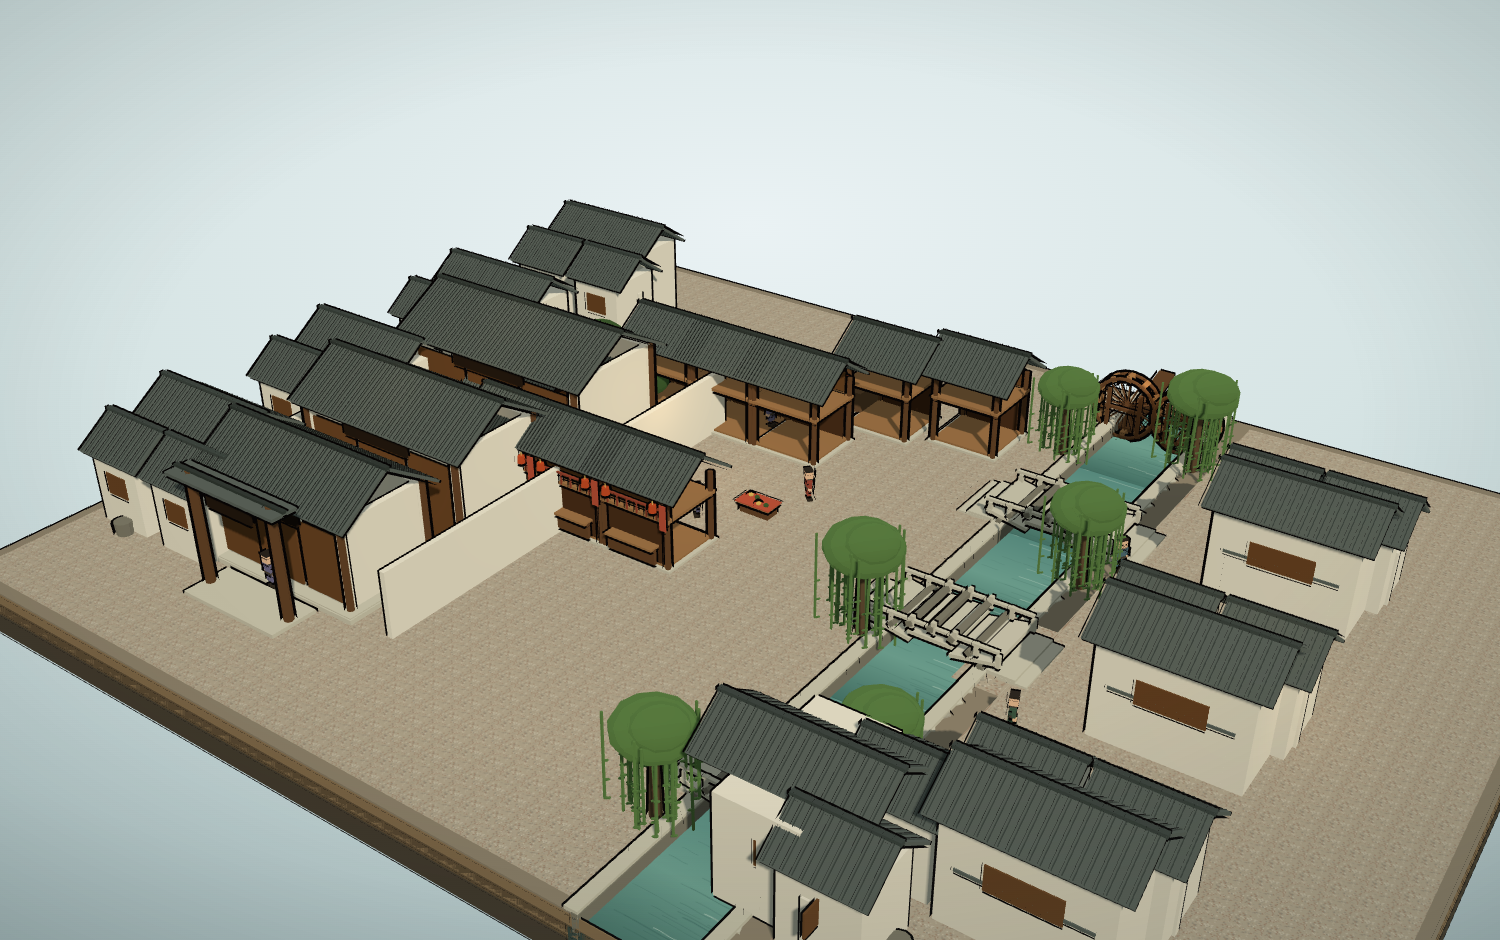
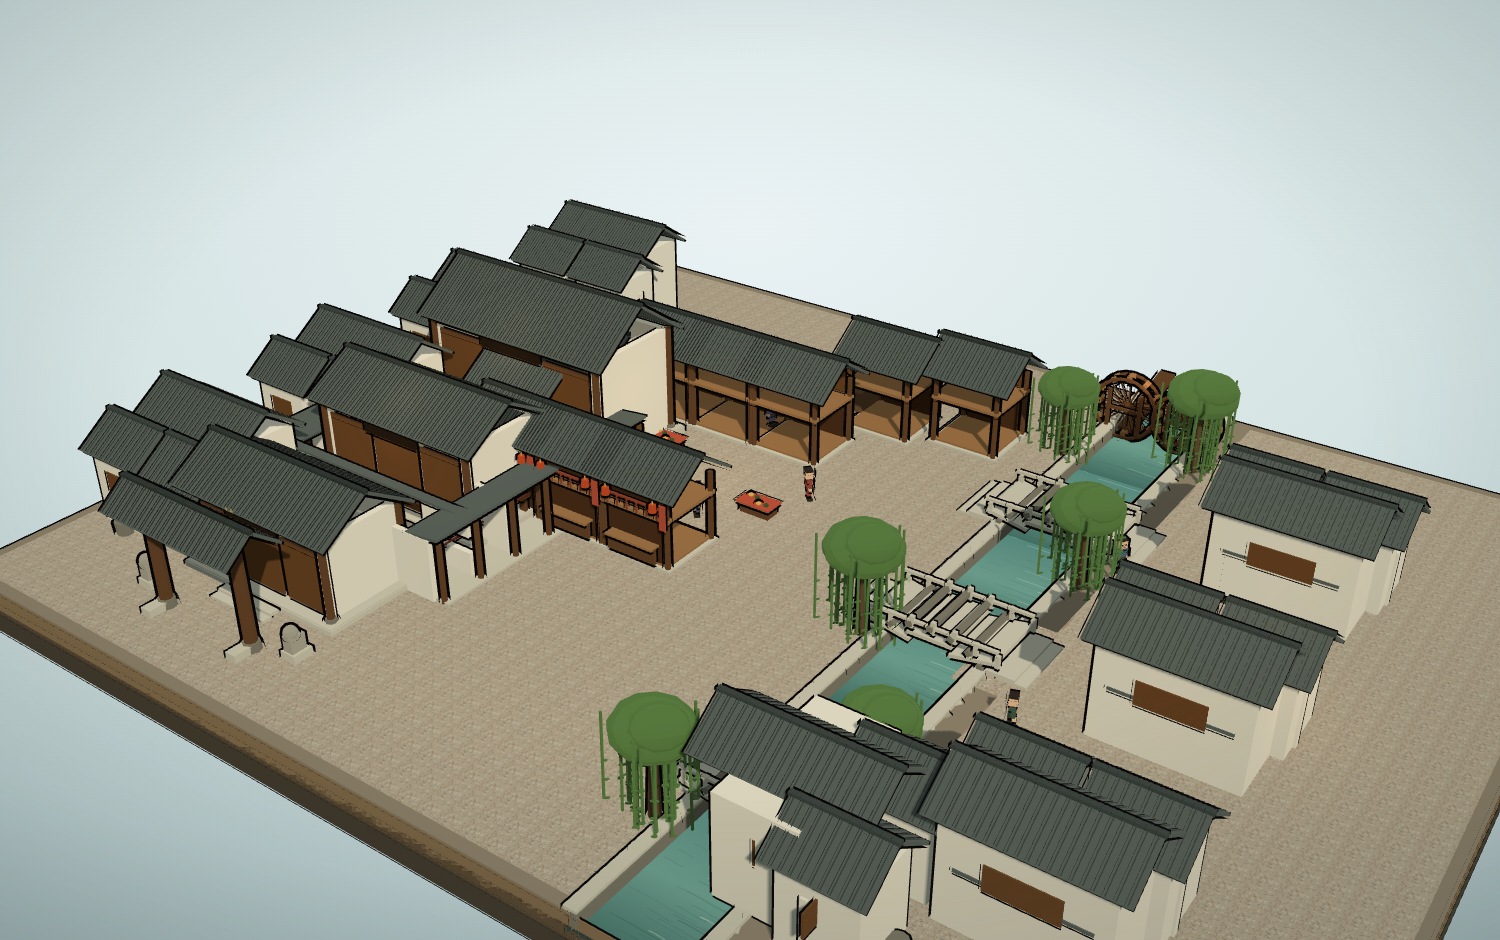
fix(lijiang): 木府重修——三进高度分级、东西廊与院墙月洞门、牌坊改硬山顶

diff --git a/docs/lijiang.html b/docs/lijiang.html
@@ -19428,46 +19428,103 @@ function ljHouse(b, x, z, ry) {
   b.cyl('ljStoneD', 0.40, 0.36, 0.62, 12, pj[0], FY + 0.31, pj[1]);
 }
 
-/* ---------------- 木府：三进院落 + 牌坊 ---------------- */
+/* ---------------- 木府：牌坊 + 三进院落 + 东西廊 ---------------- */
 function ljMansion(b) {
   const CX = -16.0, FY = LJ_GY + 0.30;
-  /* 牌坊（最南） */
-  b.box('ljStoneL', 5.4, 0.30, 2.2, CX, LJ_GY + 0.15, 16.6);
-  [-2.4, 2.4].forEach(function (s) {
-    b.cyl('ljWoodD', 0.20, 0.22, 5.2, 8, CX + s, FY + 2.6, 16.6);
+
+  /* 牌坊：单间两柱，重檐瓦顶（三间四柱在低模下接不实） */
+  const PZ = 18.6;
+  [-2.6, 2.6].forEach(function (dx) {
+    b.cyl('ljStoneD', 0.36, 0.42, 0.52, 8, CX + dx, LJ_GY + 0.26, PZ);
+    b.cyl('ljWoodD', 0.26, 0.28, 5.0, 8, CX + dx, LJ_GY + 2.98, PZ);
+    /* 抱鼓石 */
+    b.box('ljStoneL', 0.55, 0.45, 0.95, CX + dx, LJ_GY + 0.24, PZ + 0.55);
   });
-  b.box('ljWoodD', 5.6, 0.26, 0.26, CX, FY + 4.9, 16.6);
-  b.box('ljTile', 6.4, 0.14, 1.2, CX, FY + 5.10, 16.6);
-  b.box('ljRidge', 6.5, 0.12, 0.18, CX, FY + 5.24, 16.6);
-  b.box('ljSign', 2.6, 0.52, 0.12, CX, FY + 4.30, 16.6 + 0.16);
-  /* 三进厅堂 */
-  function hall(cz, w, d, h) {
-    b.box('ljStoneL', w + 1.0, 0.34, d + 1.0, CX, LJ_GY + 0.17, cz);
-    b.box('ljStoneL', w + 0.9, 0.06, d + 0.9, CX, LJ_GY + 0.37, cz);
+  b.box('ljWoodD', 6.0, 0.30, 0.34, CX, LJ_GY + 5.32, PZ);
+  b.box('ljWoodD', 5.2, 0.16, 0.26, CX, LJ_GY + 4.74, PZ);
+  /* 双坡瓦顶 */
+  /* 牌坊顶直接调硬山函数：手拼双坡的尺寸/角度很难一次对准 */
+  gdGableRoof(b, 'ljTile', 'ljRidge', CX, PZ, 7.0, 2.5, LJ_GY + 4.75, LJ_GY + 5.75, 'z');
+  b.box('ljSign', 2.6, 0.62, 0.12, CX, LJ_GY + 4.90, PZ + 0.19);
+  b.box('ljGold', 2.72, 0.05, 0.14, CX, LJ_GY + 5.22, PZ + 0.19);
+  /* 石狮 */
+  [[-4.4, 17.9], [4.4, 17.9]].forEach(function (q) {
+    b.box('ljStoneL', 0.78, 0.46, 0.92, CX + q[0], LJ_GY + 0.25, q[1]);
+    b.box('ljStone', 0.50, 0.70, 0.70, CX + q[0], LJ_GY + 0.83, q[1] + 0.04);
+    b.sph('ljStone', 0.30, CX + q[0], LJ_GY + 1.31, q[1] + 0.15, 1, 1, 1);
+  });
+
+  /* 厅堂：门厅低、仪门中、正殿高，间距 7 米 */
+  function hall(cz, w, d, h, tier) {
+    const base = LJ_GY + 0.14 * tier;
+    b.box('ljStoneL', w + 1.0, 0.34, d + 1.0, CX, base + 0.17, cz);
+    b.box('ljStoneL', w + 0.92, 0.06, d + 0.92, CX, base + 0.37, cz);
+    const FYh = base + 0.40;
     [[-w / 2, -d / 2], [w / 2, -d / 2], [-w / 2, d / 2], [w / 2, d / 2]].forEach(function (q) {
-      b.cyl('ljWoodD', 0.15, 0.16, h, 8, CX + q[0], FY + h / 2, cz + q[1]);
+      b.cyl('ljWoodD', 0.16, 0.17, h, 8, CX + q[0], FYh + h / 2, cz + q[1]);
+      b.cyl('ljStoneD', 0.24, 0.26, 0.16, 8, CX + q[0], FYh + 0.08, cz + q[1]);
     });
-    b.box('ljWall', w, h, 0.30, CX, FY + h / 2, cz - d / 2 + 0.15);
-    b.box('ljWall', 0.30, h, d, CX - w / 2 + 0.15, FY + h / 2, cz);
-    b.box('ljWall', 0.30, h, d, CX + w / 2 - 0.15, FY + h / 2, cz);
+    /* 三面墙 */
+    b.box('ljWall', w, h, 0.30, CX, FYh + h / 2, cz - d / 2 + 0.15);
+    b.box('ljWall', 0.30, h, d, CX - w / 2 + 0.15, FYh + h / 2, cz);
+    b.box('ljWall', 0.30, h, d, CX + w / 2 - 0.15, FYh + h / 2, cz);
+    /* 前檐格扇：三间 */
     for (let i = 0; i < 3; i++) {
-      b.box('ljLattice', w / 3 - 0.28, h - 0.9, 0.08, CX - w / 2 + (i + 0.5) * w / 3, FY + (h - 0.9) / 2 + 0.2, cz + d / 2 - 0.08);
+      b.box('ljLattice', w / 3 - 0.28, h - 0.9, 0.08,
+        CX - w / 2 + (i + 0.5) * w / 3, FYh + (h - 0.9) / 2 + 0.15, cz + d / 2 - 0.08);
+      b.box('ljWoodD', w / 3 - 0.28, 0.10, 0.12,
+        CX - w / 2 + (i + 0.5) * w / 3, FYh + h - 0.72, cz + d / 2 - 0.08);
     }
-    gdGableRoof(b, 'ljTile', 'ljRidge', CX, cz, w + 0.7, d + 0.7, FY + h, FY + h + 1.7, 'z');
-    b.box('ljSign', w * 0.42, 0.48, 0.10, CX, FY + h - 0.55, cz + d / 2 + 0.16);
+    /* 额枋 */
+    b.box('ljWoodD', w + 0.15, 0.24, 0.22, CX, FYh + h - 0.12, cz + d / 2);
+    /* 屋顶：正殿（tier 2）脊更高 */
+    gdGableRoof(b, 'ljTile', 'ljRidge', CX, cz, w + 0.7, d + 0.7, FYh + h, FYh + h + (tier === 2 ? 2.1 : 1.5), 'z');
+    /* 匾 */
+    b.box('ljSign', w * 0.36, 0.44, 0.10, CX, FYh + h - 0.52, cz + d / 2 + 0.14);
+    /* 台阶三级 */
+    for (let i = 0; i < 3; i++) {
+      b.box('ljStoneL', 3.2, 0.15, 0.42, CX, base + 0.30 - i * 0.13, cz + d / 2 + 0.85 + i * 0.40);
+    }
+    return FYh;
   }
-  hall(12.6, 8.0, 4.4, 4.0);    // 大门厅
-  hall(6.6, 9.0, 4.8, 4.6);     // 仪门
-  hall(-0.6, 10.0, 5.4, 5.2);   // 正殿
-  /* 后院小园 */
-  b.box('ljStoneD', 6.0, 0.30, 4.2, CX, LJ_GY - 0.12, -7.4);
-  b.box('ljWaterD', 5.6, 0.06, 3.8, CX, LJ_WY, -7.4);
-  b.sph('ljLeaf2', 1.1, CX - 2.6, FY + 1.6, -8.6, 1.2, 0.8, 1.1);
-  b.sph('ljLeaf2', 0.9, CX + 2.4, FY + 1.4, -6.4, 1.1, 0.75, 1.0);
-  /* 院墙：东西两道 */
-  [-6.4, 6.4].forEach(function (dx) {
-    b.box('ljWall', 0.26, 3.2, 22.0, CX + dx, LJ_GY + 1.6, 4.0);
+  hall(13.8, 8.0, 4.0, 3.6, 0);
+  hall(6.0, 8.6, 4.4, 4.2, 1);
+  hall(-2.0, 10.0, 5.2, 5.2, 2);
+
+  /* 东西廊：连接三进，单坡顶 */
+  [-1, 1].forEach(function (s) {
+    const x = CX + s * 5.6;
+    b.box('ljStoneL', 2.2, 0.24, 13.0, x, LJ_GY + 0.12, 5.6);
+    for (let i = 0; i < 7; i++) {
+      b.cyl('ljWoodD', 0.12, 0.13, 2.9, 8, x + s * 0.8, LJ_GY + 1.45, -0.6 + i * 2.1);
+    }
+    b.box('ljTile', 1.8, 0.12, 13.2, x, LJ_GY + 3.05, 5.6, 0, 0, s * 0.11);
+    b.box('ljWoodR', 0.10, 0.06, 13.0, x - s * 0.95, LJ_GY + 1.30, 5.6);
   });
+
+  /* 院墙 + 月洞门：两进之间 */
+  [[9.9, 1.15], [2.3, 1.05]].forEach(function (q) {
+    const cz = q[0], r = q[1];
+    b.box('ljWall', 12.0, 3.0, 0.26, CX, LJ_GY + 1.50, cz - 2.2, 0, 0, 0);
+    b.box('ljWall', 12.0, 3.0, 0.26, CX, LJ_GY + 1.50, cz + 2.2, 0, 0, 0);
+    b.box('ljWall', 2.6, 1.30, 0.26, CX - 4.7, LJ_GY + 0.65, cz);
+    b.box('ljWall', 2.6, 1.30, 0.26, CX + 4.7, LJ_GY + 0.65, cz);
+    b.box('ljWall', 2.6, 0.95, 0.26, CX - 4.7, LJ_GY + 2.52, cz);
+    b.box('ljWall', 2.6, 0.95, 0.26, CX + 4.7, LJ_GY + 2.52, cz);
+    b.box('ljTile', 12.4, 0.12, 0.46, CX, LJ_GY + 3.06, cz);
+  });
+
+  /* 后院：水池 + 石桥 + 小亭 */
+  b.box('ljStoneD', 6.4, 0.32, 4.6, CX, LJ_GY - 0.13, -8.6);
+  b.box('ljWaterD', 6.0, 0.06, 4.2, CX, LJ_GY + 0.12, -8.6);
+  b.box('ljStoneL', 1.2, 0.16, 4.6, CX, LJ_GY + 0.20, -8.6);
+  b.cyl('ljStoneL', 1.3, 1.4, 0.34, 8, CX - 3.4, LJ_GY + 0.17, -10.6);
+  for (let i = 0; i < 4; i++) {
+    const a = i / 4 * Math.PI * 2 + Math.PI / 4;
+    b.cyl('ljWoodD', 0.09, 0.10, 2.0, 6, CX - 3.4 + Math.cos(a) * 1.0, LJ_GY + 1.34, -10.6 + Math.sin(a) * 1.0);
+  }
+  b.box('ljTile', 2.6, 0.12, 2.6, CX - 3.4, LJ_GY + 2.40, -10.6);
+  b.sph('ljLeaf2', 0.95, CX + 3.6, LJ_GY + 1.5, -10.2, 1.15, 0.8, 1.1);
 }
 
 /* ---------------- 大水车：两座，可转 ---------------- */

diff --git a/src/scene.js b/src/scene.js
@@ -19295,46 +19295,103 @@ function ljHouse(b, x, z, ry) {
   b.cyl('ljStoneD', 0.40, 0.36, 0.62, 12, pj[0], FY + 0.31, pj[1]);
 }
 
-/* ---------------- 木府：三进院落 + 牌坊 ---------------- */
+/* ---------------- 木府：牌坊 + 三进院落 + 东西廊 ---------------- */
 function ljMansion(b) {
   const CX = -16.0, FY = LJ_GY + 0.30;
-  /* 牌坊（最南） */
-  b.box('ljStoneL', 5.4, 0.30, 2.2, CX, LJ_GY + 0.15, 16.6);
-  [-2.4, 2.4].forEach(function (s) {
-    b.cyl('ljWoodD', 0.20, 0.22, 5.2, 8, CX + s, FY + 2.6, 16.6);
+
+  /* 牌坊：单间两柱，重檐瓦顶（三间四柱在低模下接不实） */
+  const PZ = 18.6;
+  [-2.6, 2.6].forEach(function (dx) {
+    b.cyl('ljStoneD', 0.36, 0.42, 0.52, 8, CX + dx, LJ_GY + 0.26, PZ);
+    b.cyl('ljWoodD', 0.26, 0.28, 5.0, 8, CX + dx, LJ_GY + 2.98, PZ);
+    /* 抱鼓石 */
+    b.box('ljStoneL', 0.55, 0.45, 0.95, CX + dx, LJ_GY + 0.24, PZ + 0.55);
   });
-  b.box('ljWoodD', 5.6, 0.26, 0.26, CX, FY + 4.9, 16.6);
-  b.box('ljTile', 6.4, 0.14, 1.2, CX, FY + 5.10, 16.6);
-  b.box('ljRidge', 6.5, 0.12, 0.18, CX, FY + 5.24, 16.6);
-  b.box('ljSign', 2.6, 0.52, 0.12, CX, FY + 4.30, 16.6 + 0.16);
-  /* 三进厅堂 */
-  function hall(cz, w, d, h) {
-    b.box('ljStoneL', w + 1.0, 0.34, d + 1.0, CX, LJ_GY + 0.17, cz);
-    b.box('ljStoneL', w + 0.9, 0.06, d + 0.9, CX, LJ_GY + 0.37, cz);
+  b.box('ljWoodD', 6.0, 0.30, 0.34, CX, LJ_GY + 5.32, PZ);
+  b.box('ljWoodD', 5.2, 0.16, 0.26, CX, LJ_GY + 4.74, PZ);
+  /* 双坡瓦顶 */
+  /* 牌坊顶直接调硬山函数：手拼双坡的尺寸/角度很难一次对准 */
+  gdGableRoof(b, 'ljTile', 'ljRidge', CX, PZ, 7.0, 2.5, LJ_GY + 4.75, LJ_GY + 5.75, 'z');
+  b.box('ljSign', 2.6, 0.62, 0.12, CX, LJ_GY + 4.90, PZ + 0.19);
+  b.box('ljGold', 2.72, 0.05, 0.14, CX, LJ_GY + 5.22, PZ + 0.19);
+  /* 石狮 */
+  [[-4.4, 17.9], [4.4, 17.9]].forEach(function (q) {
+    b.box('ljStoneL', 0.78, 0.46, 0.92, CX + q[0], LJ_GY + 0.25, q[1]);
+    b.box('ljStone', 0.50, 0.70, 0.70, CX + q[0], LJ_GY + 0.83, q[1] + 0.04);
+    b.sph('ljStone', 0.30, CX + q[0], LJ_GY + 1.31, q[1] + 0.15, 1, 1, 1);
+  });
+
+  /* 厅堂：门厅低、仪门中、正殿高，间距 7 米 */
+  function hall(cz, w, d, h, tier) {
+    const base = LJ_GY + 0.14 * tier;
+    b.box('ljStoneL', w + 1.0, 0.34, d + 1.0, CX, base + 0.17, cz);
+    b.box('ljStoneL', w + 0.92, 0.06, d + 0.92, CX, base + 0.37, cz);
+    const FYh = base + 0.40;
     [[-w / 2, -d / 2], [w / 2, -d / 2], [-w / 2, d / 2], [w / 2, d / 2]].forEach(function (q) {
-      b.cyl('ljWoodD', 0.15, 0.16, h, 8, CX + q[0], FY + h / 2, cz + q[1]);
+      b.cyl('ljWoodD', 0.16, 0.17, h, 8, CX + q[0], FYh + h / 2, cz + q[1]);
+      b.cyl('ljStoneD', 0.24, 0.26, 0.16, 8, CX + q[0], FYh + 0.08, cz + q[1]);
     });
-    b.box('ljWall', w, h, 0.30, CX, FY + h / 2, cz - d / 2 + 0.15);
-    b.box('ljWall', 0.30, h, d, CX - w / 2 + 0.15, FY + h / 2, cz);
-    b.box('ljWall', 0.30, h, d, CX + w / 2 - 0.15, FY + h / 2, cz);
+    /* 三面墙 */
+    b.box('ljWall', w, h, 0.30, CX, FYh + h / 2, cz - d / 2 + 0.15);
+    b.box('ljWall', 0.30, h, d, CX - w / 2 + 0.15, FYh + h / 2, cz);
+    b.box('ljWall', 0.30, h, d, CX + w / 2 - 0.15, FYh + h / 2, cz);
+    /* 前檐格扇：三间 */
     for (let i = 0; i < 3; i++) {
-      b.box('ljLattice', w / 3 - 0.28, h - 0.9, 0.08, CX - w / 2 + (i + 0.5) * w / 3, FY + (h - 0.9) / 2 + 0.2, cz + d / 2 - 0.08);
+      b.box('ljLattice', w / 3 - 0.28, h - 0.9, 0.08,
+        CX - w / 2 + (i + 0.5) * w / 3, FYh + (h - 0.9) / 2 + 0.15, cz + d / 2 - 0.08);
+      b.box('ljWoodD', w / 3 - 0.28, 0.10, 0.12,
+        CX - w / 2 + (i + 0.5) * w / 3, FYh + h - 0.72, cz + d / 2 - 0.08);
     }
-    gdGableRoof(b, 'ljTile', 'ljRidge', CX, cz, w + 0.7, d + 0.7, FY + h, FY + h + 1.7, 'z');
-    b.box('ljSign', w * 0.42, 0.48, 0.10, CX, FY + h - 0.55, cz + d / 2 + 0.16);
+    /* 额枋 */
+    b.box('ljWoodD', w + 0.15, 0.24, 0.22, CX, FYh + h - 0.12, cz + d / 2);
+    /* 屋顶：正殿（tier 2）脊更高 */
+    gdGableRoof(b, 'ljTile', 'ljRidge', CX, cz, w + 0.7, d + 0.7, FYh + h, FYh + h + (tier === 2 ? 2.1 : 1.5), 'z');
+    /* 匾 */
+    b.box('ljSign', w * 0.36, 0.44, 0.10, CX, FYh + h - 0.52, cz + d / 2 + 0.14);
+    /* 台阶三级 */
+    for (let i = 0; i < 3; i++) {
+      b.box('ljStoneL', 3.2, 0.15, 0.42, CX, base + 0.30 - i * 0.13, cz + d / 2 + 0.85 + i * 0.40);
+    }
+    return FYh;
   }
-  hall(12.6, 8.0, 4.4, 4.0);    // 大门厅
-  hall(6.6, 9.0, 4.8, 4.6);     // 仪门
-  hall(-0.6, 10.0, 5.4, 5.2);   // 正殿
-  /* 后院小园 */
-  b.box('ljStoneD', 6.0, 0.30, 4.2, CX, LJ_GY - 0.12, -7.4);
-  b.box('ljWaterD', 5.6, 0.06, 3.8, CX, LJ_WY, -7.4);
-  b.sph('ljLeaf2', 1.1, CX - 2.6, FY + 1.6, -8.6, 1.2, 0.8, 1.1);
-  b.sph('ljLeaf2', 0.9, CX + 2.4, FY + 1.4, -6.4, 1.1, 0.75, 1.0);
-  /* 院墙：东西两道 */
-  [-6.4, 6.4].forEach(function (dx) {
-    b.box('ljWall', 0.26, 3.2, 22.0, CX + dx, LJ_GY + 1.6, 4.0);
+  hall(13.8, 8.0, 4.0, 3.6, 0);
+  hall(6.0, 8.6, 4.4, 4.2, 1);
+  hall(-2.0, 10.0, 5.2, 5.2, 2);
+
+  /* 东西廊：连接三进，单坡顶 */
+  [-1, 1].forEach(function (s) {
+    const x = CX + s * 5.6;
+    b.box('ljStoneL', 2.2, 0.24, 13.0, x, LJ_GY + 0.12, 5.6);
+    for (let i = 0; i < 7; i++) {
+      b.cyl('ljWoodD', 0.12, 0.13, 2.9, 8, x + s * 0.8, LJ_GY + 1.45, -0.6 + i * 2.1);
+    }
+    b.box('ljTile', 1.8, 0.12, 13.2, x, LJ_GY + 3.05, 5.6, 0, 0, s * 0.11);
+    b.box('ljWoodR', 0.10, 0.06, 13.0, x - s * 0.95, LJ_GY + 1.30, 5.6);
   });
+
+  /* 院墙 + 月洞门：两进之间 */
+  [[9.9, 1.15], [2.3, 1.05]].forEach(function (q) {
+    const cz = q[0], r = q[1];
+    b.box('ljWall', 12.0, 3.0, 0.26, CX, LJ_GY + 1.50, cz - 2.2, 0, 0, 0);
+    b.box('ljWall', 12.0, 3.0, 0.26, CX, LJ_GY + 1.50, cz + 2.2, 0, 0, 0);
+    b.box('ljWall', 2.6, 1.30, 0.26, CX - 4.7, LJ_GY + 0.65, cz);
+    b.box('ljWall', 2.6, 1.30, 0.26, CX + 4.7, LJ_GY + 0.65, cz);
+    b.box('ljWall', 2.6, 0.95, 0.26, CX - 4.7, LJ_GY + 2.52, cz);
+    b.box('ljWall', 2.6, 0.95, 0.26, CX + 4.7, LJ_GY + 2.52, cz);
+    b.box('ljTile', 12.4, 0.12, 0.46, CX, LJ_GY + 3.06, cz);
+  });
+
+  /* 后院：水池 + 石桥 + 小亭 */
+  b.box('ljStoneD', 6.4, 0.32, 4.6, CX, LJ_GY - 0.13, -8.6);
+  b.box('ljWaterD', 6.0, 0.06, 4.2, CX, LJ_GY + 0.12, -8.6);
+  b.box('ljStoneL', 1.2, 0.16, 4.6, CX, LJ_GY + 0.20, -8.6);
+  b.cyl('ljStoneL', 1.3, 1.4, 0.34, 8, CX - 3.4, LJ_GY + 0.17, -10.6);
+  for (let i = 0; i < 4; i++) {
+    const a = i / 4 * Math.PI * 2 + Math.PI / 4;
+    b.cyl('ljWoodD', 0.09, 0.10, 2.0, 6, CX - 3.4 + Math.cos(a) * 1.0, LJ_GY + 1.34, -10.6 + Math.sin(a) * 1.0);
+  }
+  b.box('ljTile', 2.6, 0.12, 2.6, CX - 3.4, LJ_GY + 2.40, -10.6);
+  b.sph('ljLeaf2', 0.95, CX + 3.6, LJ_GY + 1.5, -10.2, 1.15, 0.8, 1.1);
 }
 
 /* ---------------- 大水车：两座，可转 ---------------- */

diff --git a/README.md b/README.md
@@ -472,13 +472,15 @@ CT_ANIM.push(function (t) {
   **Plane 的 y 必须高于地面顶面**（这块地顶面 0.64，Plane 放 0.68），否则整片被埋掉。
 - **店铺**：两层木构 + 骑楼柱廊 + 柜台 + 横匾 + 竖招旗 + 灯笼，硬山带瓦垄。
 - **民居**：三坊一照壁 —— 正房 + 两厢 + 照壁 + 院中小树与水缸。
-- **木府**：牌坊 + 三进厅堂（门厅/仪门/正殿）+ 后院水池。
+- **木府**：单间两柱牌坊（硬山瓦顶 + 抱鼓石 + 石狮）+ 三进厅堂（门厅低、仪门中、正殿高，间距 7 米）
+  + 东西廊 + 两道院墙月洞门 + 后院水池小亭。**牌坊顶直接调 `gdGableRoof`**：手拼双坡的
+  尺寸/角度/高差很难一次对准，试了五版才对。
 - **水车**：轮心压到 `LJ_GY+1.25`（半径 1.55，底部入水 0.13），支架高 2.2；
   辐条与水斗按 16/12 等分排布。
 - **垂柳**：树干 + 4 根主枝 + 36 根垂条（0.075 见方）+ 两团树冠球。
   只有垂条没有树冠，读出来就是一束竹竿。
 
-定稿 101 mesh / 80036 三角，`magenta:[] / errors:[]`；21 套全量回归全绿。
+定稿 101 mesh / 84844 三角，`magenta:[] / errors:[]`；21 套全量回归全绿。
 ### 人物：刻意几何化的积木人
 
 拟真路线（球头 + 锥台躯干 + 分段圆柱四肢）在这套 toon + 描边风格里
